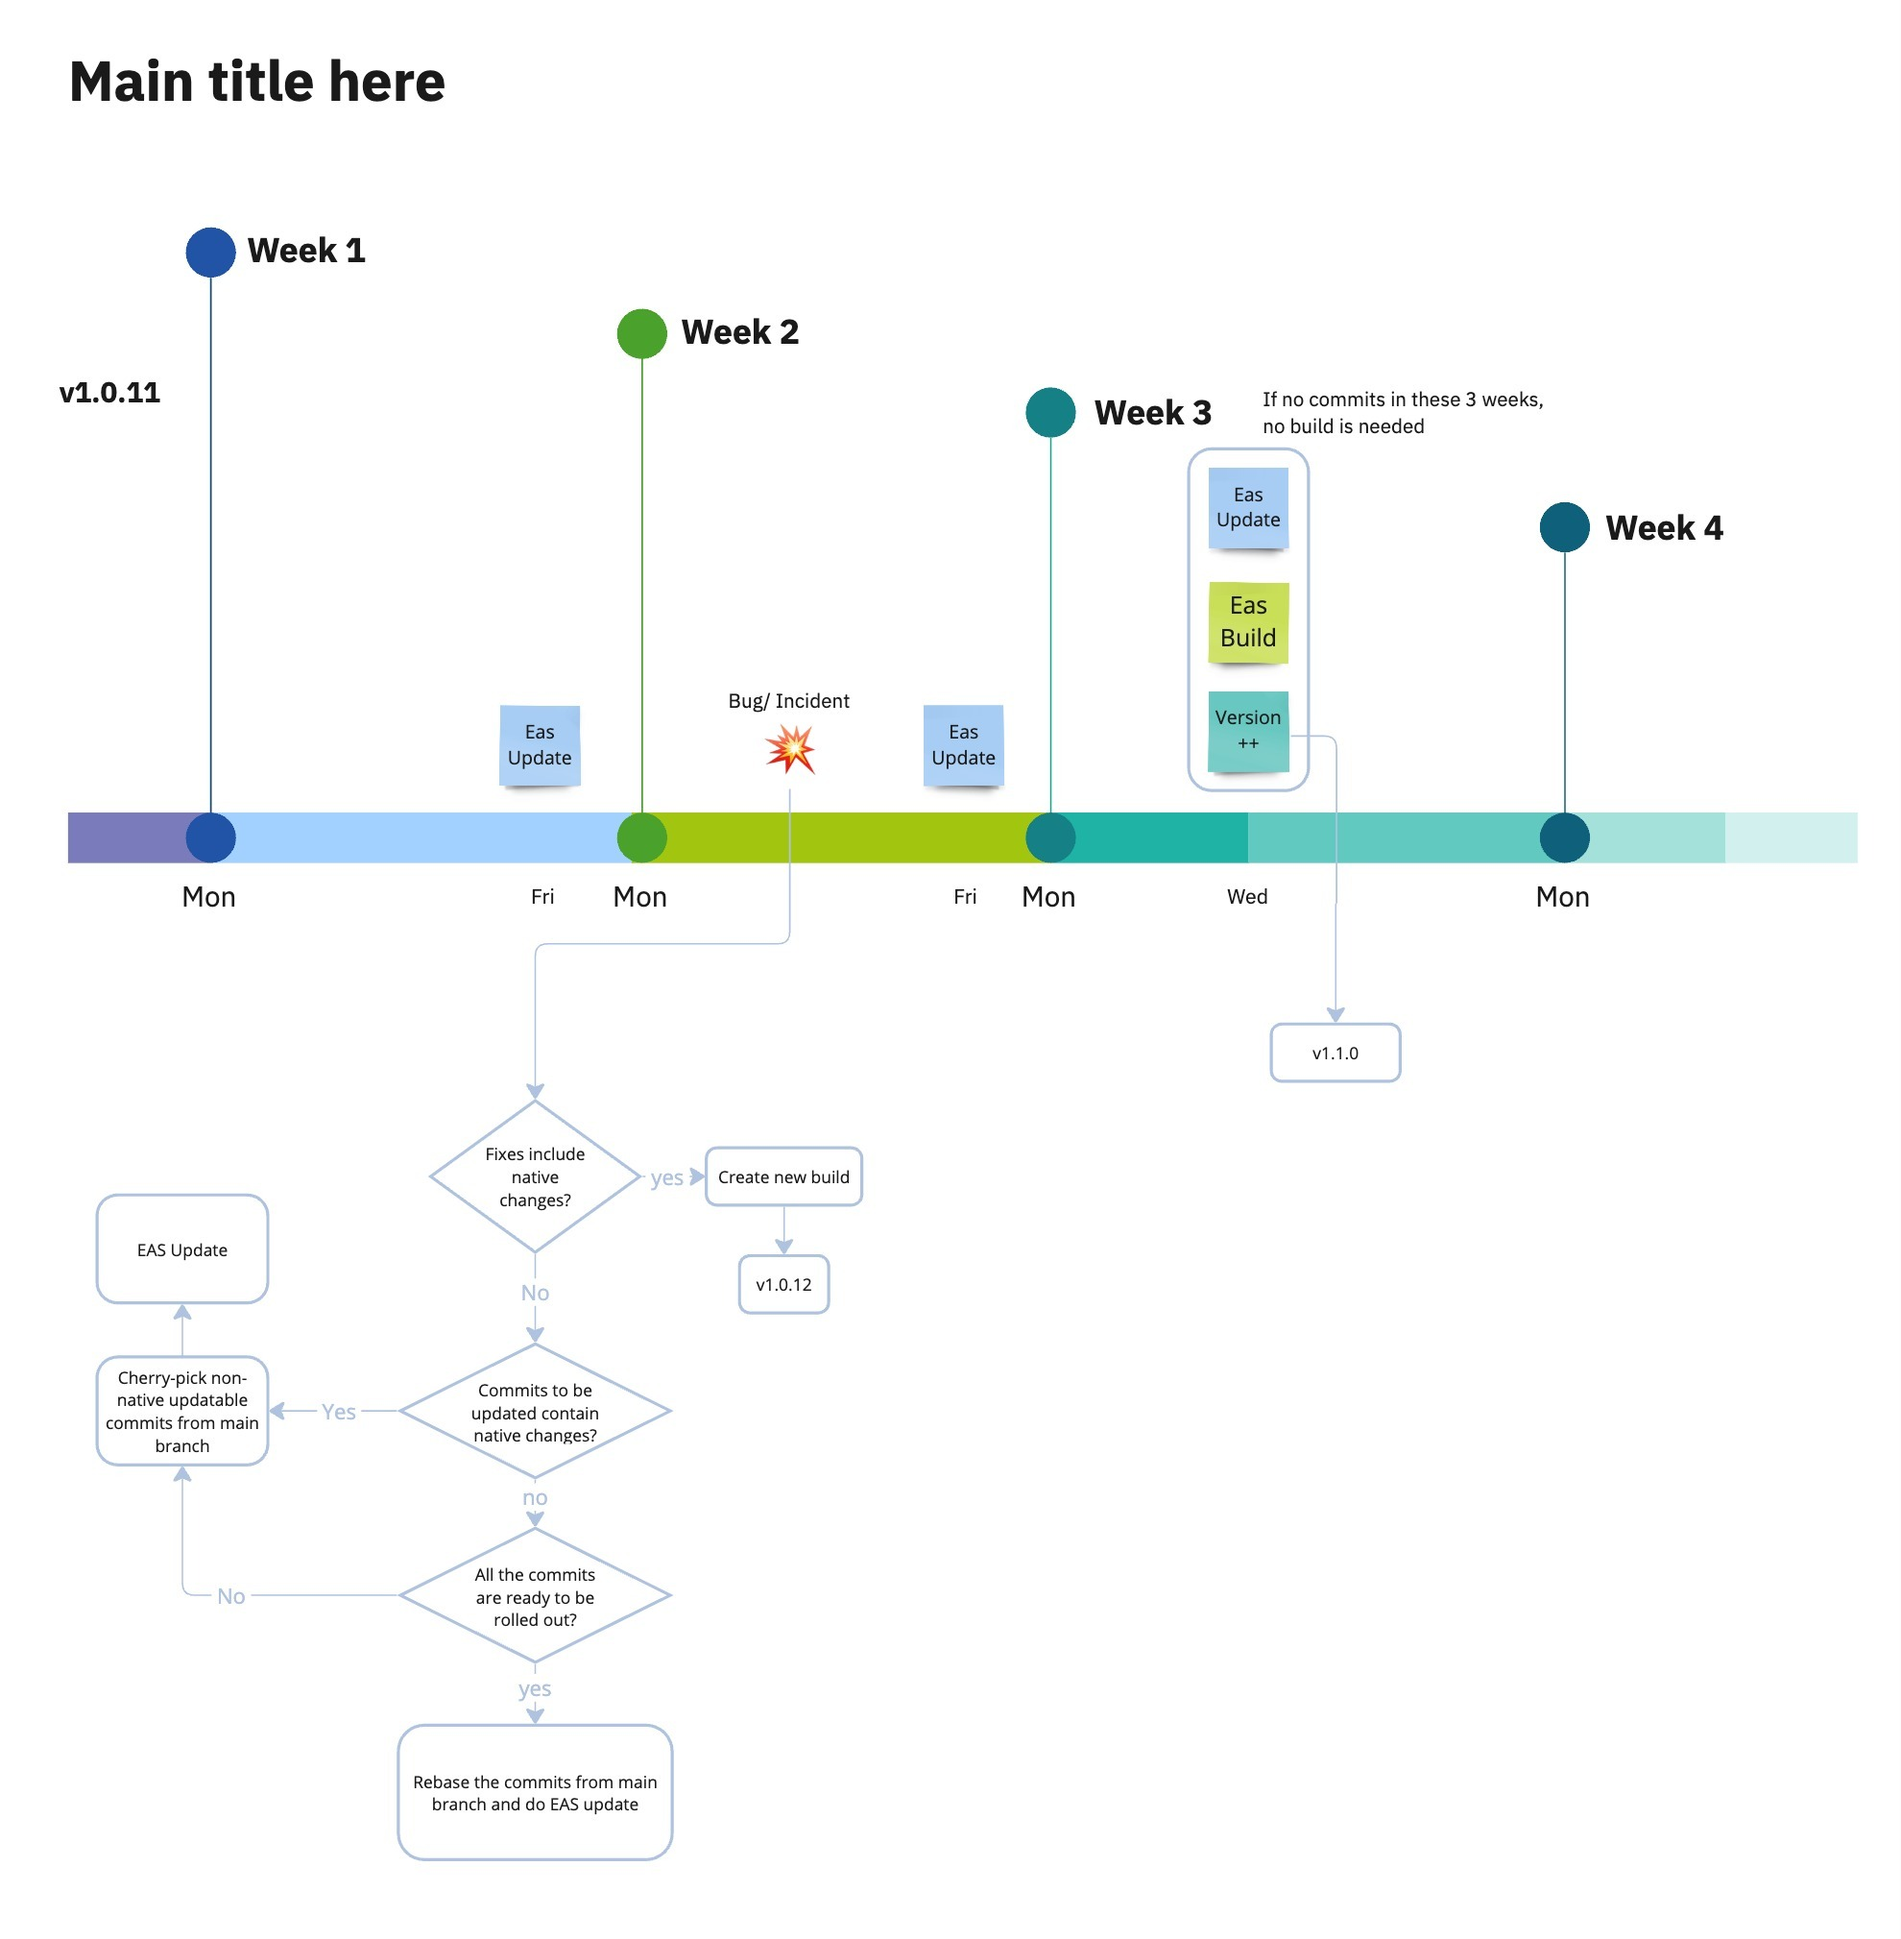
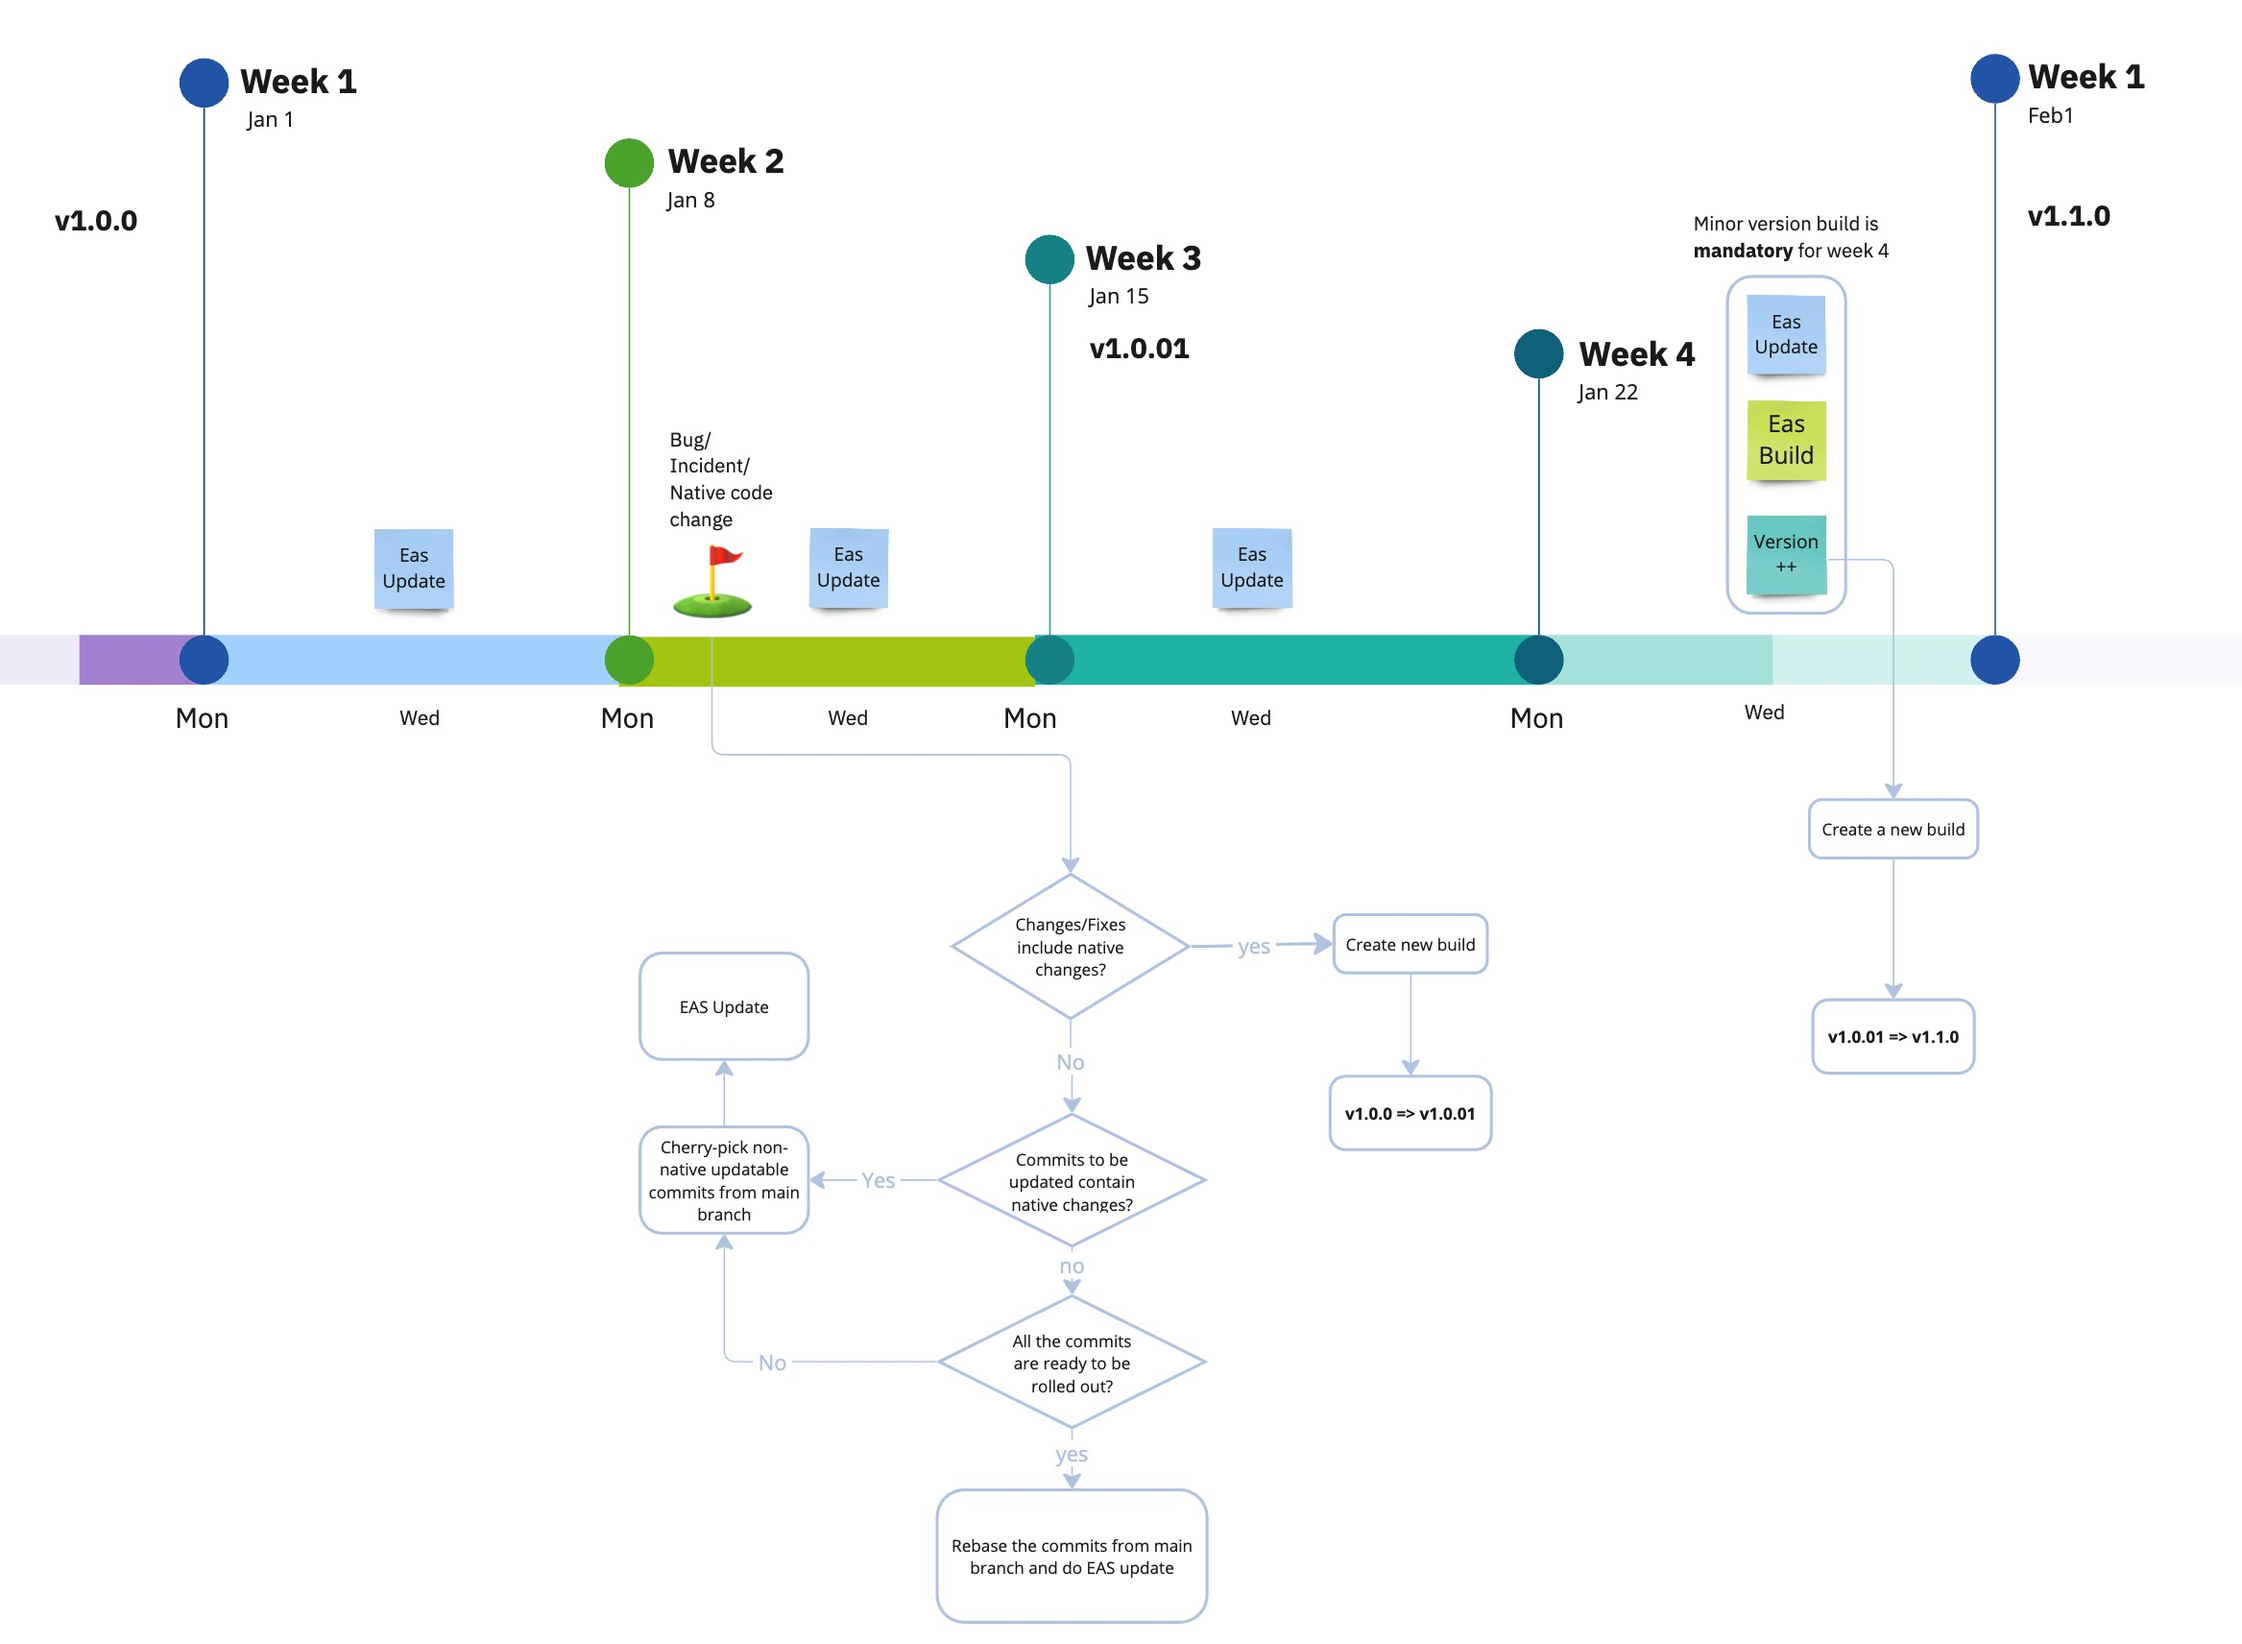
[PORTAL-7418]Update guideline for papp deployment workflow

diff --git a/guidelines/app-coding-standard/app-deployment-workflow.md b/guidelines/app-coding-standard/app-deployment-workflow.md
@@ -4,11 +4,18 @@
 
 ![figure](../../static/img/papp-deployment-timeline.jpg)
 
-### Actions in Weekly EAS Update
+### Purpose
 
-#### Purpose:
+- The deployment timeline is a guideline for the update and build process for the preface app. It is a standardised way to make sure we deliver changes in a quick cadence while maintaining our app.
 
-- Currently we are still updating v1.0.9 when the latest app version has already been v1.0.11. When we roll out more version, we should consider when to give up the old versions, otherwise, we will have many efforts when doing EAS update.
+### Procedure Notes
+
+- The cycle is set to four weeks per month and remaining days for last week does not carry over to next month
+- Every month is capstoned by a minor version upgrade, requiring a new build
+- EAS update should be handled midweek if possible to enable quick response in case any error occurs
+- EAS build => submission => approval process will take around 1-3 days
+- Native changes to the app will prompt a new build for the week
+- Determine the apps that need to be update by referring to the app version dashboard as detailed below
 
 #### Access to preface app version dashboard
 
@@ -17,29 +24,41 @@
 - This dashboard is used to track the app version usage of iOS and Android. (i.e.: how many users are using the app with the version)
 - It should help us to decide which version should be omitted for any updates.
 
-#### Actions:
+#### Update Actions
 
-1. Review the app version usages in ios and android before the weekly EAS update
+1. Review the app version usage using the app version dashboard before the weekly EAS update
 
-   #### iOS: [Link to App Store Connect](https://appstoreconnect.apple.com/analytics/app/d30/6541761017/metrics?chartType=singleaxis&groupDimensionKey=appVersion&measureKey=activeDevices&zoomType=day)
+2. If the active users of an old version is less than or equal 5% of the the active users of all versions, this version can be omitted for any updates.
 
-   #### Android
+3. Announce this decision in the channel to let everyone aware before updates to the different versions
 
-   1. Go to Google's Play Console
-   2. Click User > Installed Audience > All Users ![figure](../../static/img/play-console-app-version-statistic-step-1.png)
-   3. Click View by > App Version ![figure](../../static/img/play-console-app-version-statistic-step-2.png)
+4. Refer to readme file in Preface app for update procedure
 
-2. If the active users of an old version is only around 5% of the the active users of all versions, this version can be omitted for any updates.
-3. Put our force update version higher than the omitted one such that in case these 5% user try to use the app, they will be forced to download the latest version instead of facing issue using the app.
+#### Build actions
 
-   - We will start from v1.0.9
-   - Consider that we plan to omit the version below 1.0.9, we should set force update min version to 1.0.9
-     - It means that user can still stay at 1.0.9 but need to update the app if 1.0.8 or below
+1. Refer to the timeline decision tree for build for bugs, otherwise always build for native code changes and end of month.
 
-4. Announce this decision in the channel to let everyone aware on it.
+2. Refer to readme file in Preface app for build procedure
 
-### Implementation Plan:
+### Implementation Details
 
-Start date: 2/12/2024 (Monday)
-Responsible person: On-duty person
-Workflow review date: Dec 23 (Monday of Week 4)
+Responsible person: [On-duty person](https://docs.google.com/spreadsheets/d/1keGZmctYOXUs-XPzAIPbA6AfxroSlMB2H3NO7k_NSN4/edit?gid=1777765259#gid=1777765259)
+
+### Version Handling
+
+Version numbers are structured as `MAJOR.MINOR.PATCH`.
+
+#### Version Increment
+
+- **Patch Build**:  
+  - Patch builds are for builds in between the minor version builds
+  - Increment the **PATCH** version: `1.0.0` → `1.0.1` → `1.0.2` ... → `1.0.13` and so on.  
+
+- **Minor Build**:
+  - Minor builds are for builds that are necessary at the end of the monthly app cycle.
+  - Increment the **MINOR** version and reset the **PATCH** version to `0`: `1.0.0` → `1.1.0` → `1.2.0` and so on.  
+
+- **Major Build**:  
+  - TODO: Currently we do not have a set rule for when to build a major version.
+  - Increment the **MAJOR** version and reset both the **MINOR** and **PATCH** versions to `0`: `1.0.0` → `2.0.0`.  
+
